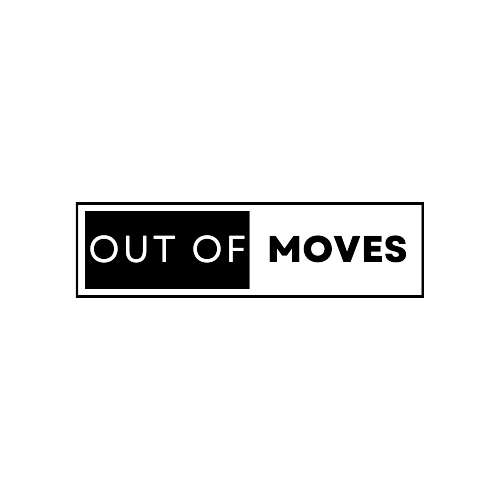
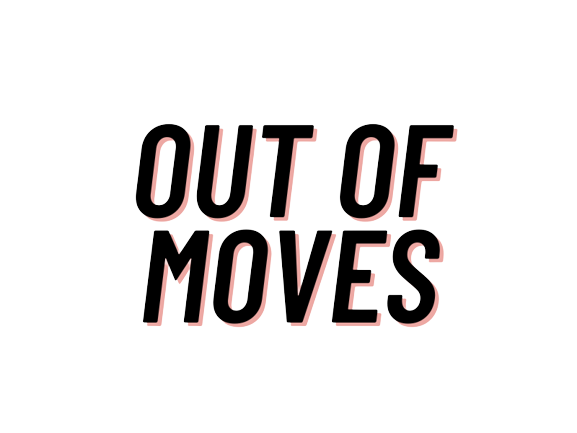
out of moves

Changed region(s): [[0.15, 0.2702, 0.87, 0.7806]]

diff --git a/pushPopPeek/__main__.py b/pushPopPeek/__main__.py
@@ -29,9 +29,12 @@ EndTurn = pygame.transform.scale(pygame.image.load("images/EndTurn.png"), (GUI_W
 BACKGROUND = pygame.transform.scale(pygame.image.load("images/wood.jpg"), (WIDTH,WIDTH))
 BLACKWIN = pygame.transform.scale(pygame.image.load("images/BlackWins.png"), (WIDTH*.75,WIDTH*.75))
 WHITEWIN = pygame.transform.scale(pygame.image.load("images/WhiteWins.png"), (WIDTH*.75,WIDTH*.75))
-# OUTOFMOVES = pygame.transform.scale(pygame.image.load("images/wood.jpg"), (WIDTH*.75,WIDTH*.75))
+OUTOFMOVES = pygame.transform.scale(pygame.image.load("images/OutOfMoves.png"), (WIDTH*.75,WIDTH*.75))
 
 dis_to_cen = WIDTH // ROWS // 2
+
+center_x = GUI_WIDTH + WIDTH/2
+center_y = WIDTH/2
 
 def init_buttons():
     global images, buttons, BlackButtonY, NeutralY, RemoveY, UndoY, EndTurnY
@@ -83,7 +86,7 @@ def draw_grid():
         pygame.draw.line(win, GRAY, (GUI_WIDTH, y), (WIDTH + GUI_WIDTH, y), 3)
 
 def click(stack_array, coord_array):
-    global x_turn, images, max_moves, mode, buttons_locked, backup_stack_array, backup_images
+    global x_turn, images, max_moves, mode, buttons_locked, out_of_moves
     # check if any buttons are clicked
     pos = pygame.mouse.get_pos()
     clicked_sprites = [b for b in buttons if b.collidepoint(pos)]
@@ -113,6 +116,7 @@ def click(stack_array, coord_array):
             print("end turn")
             mode = "both"
             max_moves = 2
+            out_of_moves = False
             x_turn = not x_turn
             if images[GUI_WIDTH/2, WIDTH*.4] == BlackButton:
                 images[GUI_WIDTH/2, WIDTH*.4] = WhiteButton
@@ -121,7 +125,8 @@ def click(stack_array, coord_array):
 
     m_x, m_y = pygame.mouse.get_pos()
     if max_moves <= 0:
-        print("Out of Moves")
+        out_of_moves = True
+        # print("Out of Moves")
     else:
         for i in range(len(coord_array)):
             for j in range(len(coord_array)):
@@ -172,10 +177,7 @@ def click(stack_array, coord_array):
                         
 
 def win_game(color):
-    global run, winImage, center_x, center_y
-    
-    center_x = GUI_WIDTH + WIDTH/2
-    center_y = WIDTH/2
+    global run, winImage
     if color == 'black':
         winImage = BLACKWIN
         # images[center_x, center_y] = BLACKWIN
@@ -221,10 +223,12 @@ def render():
         IMAGE = images[(x,y)]
         win.blit(IMAGE, (x - IMAGE.get_width() // 2, y - IMAGE.get_height() // 2))
 
+    if out_of_moves:
+        win.blit(OUTOFMOVES, (center_x - OUTOFMOVES.get_width() // 2, center_y - OUTOFMOVES.get_height() // 2))
     pygame.display.update()
 
 def main():
-    global x_turn, images, buttons, mode, buttons_locked, max_moves, run, winImage
+    global x_turn, images, buttons, mode, buttons_locked, max_moves, run, winImage, out_of_moves
 
     images = {}
     buttons = []
@@ -236,6 +240,7 @@ def main():
 
     mode = "both"
     max_moves = 2
+    out_of_moves = False
     buttons_locked = False
     
     init_buttons()
